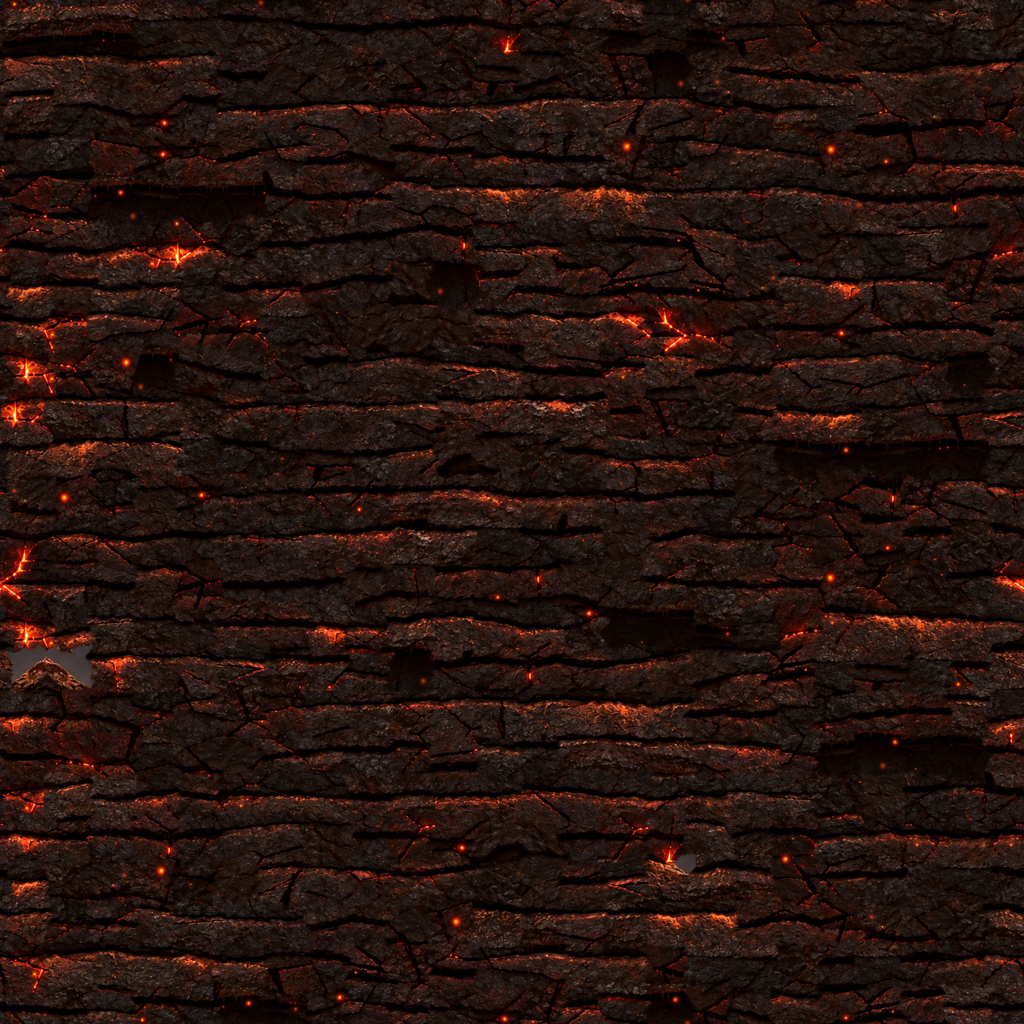
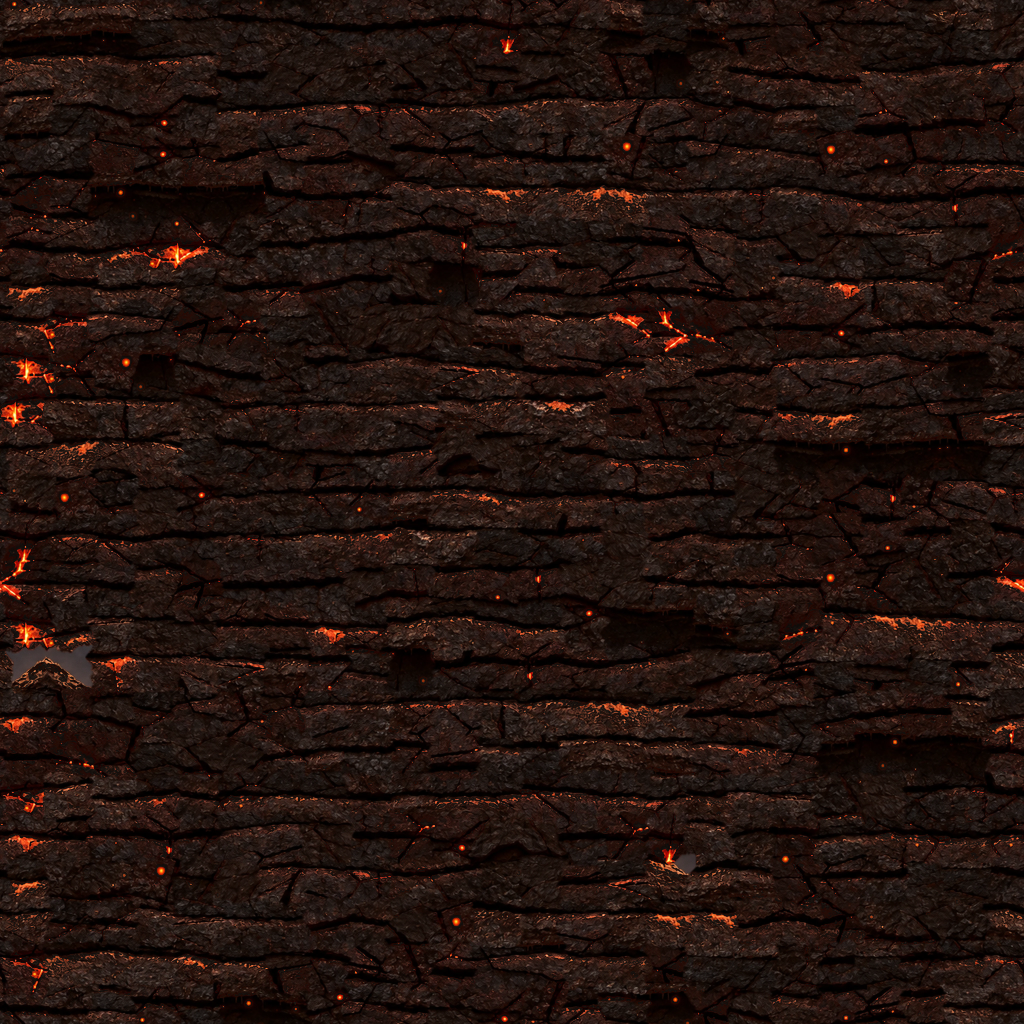
Версия 2026.10.15-50: корка лавы с трещинами расплава, тонкие прожилки вулкана, без нарисованных штрихов в траве

diff --git a/js/terrain_visual.js b/js/terrain_visual.js
@@ -354,14 +354,14 @@ function shadeMaterial(S, mt, x, y, t, capT, d, info, o, isBack) {
     }
     { const dk = Math.min(1, sd / 480); r *= 1 - 0.34 * dk; g *= 1 - 0.38 * dk; bl *= 1 - 0.36 * dk; }
     if (S.veinC && sd > 8) {
-      const dv = tileAt(tl.t3, x, y, 5, 61) < (t - capT < 70 ? 0.3 : 0.56) ? 1 : veinDist(tl, x, y, n2);   // рваные трещины, не везде
+      const dv = tileAt(tl.t3, x, y, 5, 61) < (t - capT < 70 ? 0.3 : S.veinMask) ? 1 : veinDist(tl, x, y, n2);   // рваные трещины, не везде
       if (dv < S.veinW) {
         const vc = n3 > 0.5 ? S.veinC : S.veinC2, k = 1 - dv / S.veinW, kk = k * 0.85 + 0.15;
         r += (vc[0] - r) * kk; g += (vc[1] - g) * kk; bl += (vc[2] - bl) * kk;
         if (S.veinGlow && k > 0.55 && S.hotCore) { const q = (k - 0.55) / 0.45; r += (255 - r) * q; g += (228 - g) * q; bl += (150 - bl) * q; }
         if (S.veinGlow && !isBack) { o.ga = 255 * k; o.gr = vc[0]; o.gg = vc[1]; o.gb = vc[2]; }
-      } else if (S.veinGlow && dv < S.veinW * 5) {                                              // отсвет раскалённой трещины на породе вокруг
-        const vc = n3 > 0.5 ? S.veinC : S.veinC2, q = 1 - dv / (S.veinW * 5), k = q * q * 0.32;
+      } else if (S.veinGlow && dv < S.veinW * S.veinHalo) {                                              // отсвет раскалённой трещины на породе вокруг
+        const vc = n3 > 0.5 ? S.veinC : S.veinC2, q = 1 - dv / (S.veinW * S.veinHalo), k = q * q * 0.32;
         r += (vc[0] - r) * k; g += (vc[1] - g) * k * 0.7; bl += (vc[2] - bl) * k * 0.5;
       }
     }
@@ -369,7 +369,7 @@ function shadeMaterial(S, mt, x, y, t, capT, d, info, o, isBack) {
     // пласты породы из Blender; светящиеся швы (лава, кристаллы) идут в слой свечения
     texAt(S.tx.rock, x, y, o); r = o.r * S.tgR; g = o.g * S.tgG; bl = o.b * S.tgB; o.tex = true;
     if (S.glowTex && !isBack) { const G2 = S.glowTex, dot = (o.r * G2[0] + o.g * G2[1] + o.b * G2[2]) / (Math.hypot(G2[0], G2[1], G2[2]) * (Math.hypot(o.r, o.g, o.b) + 1)), br = Math.max(o.r, o.g, o.b);   /* свечение — по исходной текстуре, без усиления яркости */
-      if (dot > 0.93 && br > 150) { o.ga = Math.min(255, (br - 150) * 2.4); o.gr = G2[0]; o.gg = G2[1]; o.gb = G2[2]; o.emit = true; o.r = r; o.g = g; o.b = bl; } }
+      if (dot > 0.93 && br > S.glowMin) { o.ga = Math.min(255, (br - S.glowMin) * 2.4);   /* светятся только раскалённые сердцевины */ o.gr = G2[0]; o.gg = G2[1]; o.gb = G2[2]; o.emit = true; o.r = r; o.g = g; o.b = bl; } }
     if (capT > 0 && t - capT < 10) { const sd = t - capT, q = 1 - sd / 10, k = S.snowy ? 1 - 0.45 * q * q : sd < 4 ? 0.5 : 0.66 + (sd - 4) * 0.057; r *= k; g *= k; bl *= k; }
     { const sd = t - capT, dk = Math.max(0, Math.min(1, (y - S.H * 0.35) / (S.H * 0.6))), up = sd < 60 ? 1.08 - sd / 60 * 0.08 : 1; const k = (1 - 0.08 * dk) * up; r *= k; g *= k * 0.98; bl *= k * 0.96; }   // глубже — темнее, у освещённого верха светлее
   } else if (mt === 2) {
@@ -427,8 +427,8 @@ function shadeMaterial(S, mt, x, y, t, capT, d, info, o, isBack) {
       if (hh > 0.6 && Math.abs(veinAt(tl.tv, x * 1.6 + bj * 37, y * 1.6) - 0.5) < 0.006 && e > 3) { r *= 0.62; g *= 0.62; bl *= 0.62; }
     }
     if (S.veinC && t - capT > 8) {
-      const dv = tileAt(tl.t3, x, y, 5, 61) < (t - capT < 70 ? 0.3 : 0.56) ? 1 : veinDist(tl, x, y, n2);   // рваные трещины, не везде
-      if (dv < S.veinW) { const vc = n3 > 0.5 ? S.veinC : S.veinC2, k = 1 - dv / S.veinW; r += (vc[0] - r) * k; g += (vc[1] - g) * k; bl += (vc[2] - bl) * k; if (S.veinGlow && !isBack) { o.ga = 255 * k; o.gr = vc[0]; o.gg = vc[1]; o.gb = vc[2]; } } else if (S.veinGlow && dv < S.veinW * 5) { const vc = n3 > 0.5 ? S.veinC : S.veinC2, q = 1 - dv / (S.veinW * 5), k = q * q * 0.32; r += (vc[0] - r) * k; g += (vc[1] - g) * k * 0.7; bl += (vc[2] - bl) * k * 0.5; }
+      const dv = tileAt(tl.t3, x, y, 5, 61) < (t - capT < 70 ? 0.3 : S.veinMask) ? 1 : veinDist(tl, x, y, n2);   // рваные трещины, не везде
+      if (dv < S.veinW) { const vc = n3 > 0.5 ? S.veinC : S.veinC2, k = 1 - dv / S.veinW; r += (vc[0] - r) * k; g += (vc[1] - g) * k; bl += (vc[2] - bl) * k; if (S.veinGlow && !isBack) { o.ga = 255 * k; o.gr = vc[0]; o.gg = vc[1]; o.gb = vc[2]; } } else if (S.veinGlow && dv < S.veinW * S.veinHalo) { const vc = n3 > 0.5 ? S.veinC : S.veinC2, q = 1 - dv / (S.veinW * S.veinHalo), k = q * q * 0.32; r += (vc[0] - r) * k; g += (vc[1] - g) * k * 0.7; bl += (vc[2] - bl) * k * 0.5; }
     }
   } else if (mt === 12 && (S.tx.rock || S.tx.dirt || S.tx.cave)) {
     // задняя стена: та же порода, что и скала вокруг (в скальных картах), иначе — плиты пещеры
@@ -895,14 +895,14 @@ function buildTerrainVisual(T, theme, map, raster, waterY) {
   const capMat = new Uint8Array(16); for (const k of (G.capMats || [1])) capMat[k] = 1;
   const V = getVoronoi();
   const S = {
-    tiles: getTiles(), colOff, vs: V.s, vl: V.l, grassy: !!G.cap.blades && !G.cap.snow, glowTex: G.tex && G.tex.glowTex, sod: theme.id === 'valley' || theme.id === 'castle' || theme.id === 'alien', rootCols: G.tex && G.tex.grass && TexLib.data[G.tex.grass] ? (theme.id === 'valley' || theme.id === 'castle' ? [[83, 100, 49], [68, 75, 38], [51, 44, 29]] : theme.id === 'alien' ? [[70, 66, 40], [52, 50, 30], [40, 34, 24]] /* мох Alien как в эталоне: тёмный оливково-бурый (медиана 65/54/34), а не салатовая полоса */ : [[82, 102, 34], [60, 76, 24], [54, 42, 24]]) : null, tx: { dirt: G.tex && TexLib.data[G.tex.dirt], cave: G.tex && TexLib.data[G.tex.cave], rock: G.tex && TexLib.data[G.tex.rock], concrete: G.tex && TexLib.data[G.tex.concrete], facade: G.tex && TexLib.data[G.tex.facade], cap: G.tex && TexLib.data[G.tex.cap] }, capMean: texMean(G.tex && TexLib.data[G.tex.cap]), texGain: 1, tgR: (G.tex && G.tex.gain) ? (Array.isArray(G.tex.gain) ? G.tex.gain[0] : G.tex.gain) : 1, tgG: (G.tex && G.tex.gain) ? (Array.isArray(G.tex.gain) ? G.tex.gain[1] : G.tex.gain) : 1, tgB: (G.tex && G.tex.gain) ? (Array.isArray(G.tex.gain) ? G.tex.gain[2] : G.tex.gain) : 1, smoothStones: !!G.smoothStones, rimCol: G.stoneRim ? hex2rgb(G.stoneRim) : null, H, pebD: G.pebDensity || 1, snowy: !!G.cap.snow, hotCore: !!(G.veins && G.veins.hot), rockDirt: !!G.rockDirt, rimK: G.rimK || 0.2, hullTop: waterY - 300, waterY, backK: G.backK || 1, glass: theme.id === 'tropical', neon: G.neonRim ? G.neonRim.map(hex2rgb) : null, sun: G.sun ? hex2rgb(G.sun) : null, hasWaterline: (theme.id === 'tropical' || theme.id === 'castle') && waterY < H, kelpCol: theme.id === 'tropical' ? [32, 58, 26] : [48, 76, 32], waterDeep: theme.liquid && theme.liquid.deep ? hex2rgb(theme.liquid.deep) : [12, 47, 85],
+    tiles: getTiles(), colOff, vs: V.s, vl: V.l, grassy: !!G.cap.blades && !G.cap.snow, glowTex: G.tex && G.tex.glowTex, glowMin: G.tex && G.tex.glowMin || 150, sod: theme.id === 'valley' || theme.id === 'castle' || theme.id === 'alien', rootCols: G.tex && G.tex.grass && TexLib.data[G.tex.grass] ? (theme.id === 'valley' || theme.id === 'castle' ? [[83, 100, 49], [68, 75, 38], [51, 44, 29]] : theme.id === 'alien' ? [[70, 66, 40], [52, 50, 30], [40, 34, 24]] /* мох Alien как в эталоне: тёмный оливково-бурый (медиана 65/54/34), а не салатовая полоса */ : [[82, 102, 34], [60, 76, 24], [54, 42, 24]]) : null, tx: { dirt: G.tex && TexLib.data[G.tex.dirt], cave: G.tex && TexLib.data[G.tex.cave], rock: G.tex && TexLib.data[G.tex.rock], concrete: G.tex && TexLib.data[G.tex.concrete], facade: G.tex && TexLib.data[G.tex.facade], cap: G.tex && TexLib.data[G.tex.cap] }, capMean: texMean(G.tex && TexLib.data[G.tex.cap]), texGain: 1, tgR: (G.tex && G.tex.gain) ? (Array.isArray(G.tex.gain) ? G.tex.gain[0] : G.tex.gain) : 1, tgG: (G.tex && G.tex.gain) ? (Array.isArray(G.tex.gain) ? G.tex.gain[1] : G.tex.gain) : 1, tgB: (G.tex && G.tex.gain) ? (Array.isArray(G.tex.gain) ? G.tex.gain[2] : G.tex.gain) : 1, smoothStones: !!G.smoothStones, rimCol: G.stoneRim ? hex2rgb(G.stoneRim) : null, H, pebD: G.pebDensity || 1, snowy: !!G.cap.snow, hotCore: !!(G.veins && G.veins.hot), rockDirt: !!G.rockDirt, rimK: G.rimK || 0.2, hullTop: waterY - 300, waterY, backK: G.backK || 1, glass: theme.id === 'tropical', neon: G.neonRim ? G.neonRim.map(hex2rgb) : null, sun: G.sun ? hex2rgb(G.sun) : null, hasWaterline: (theme.id === 'tropical' || theme.id === 'castle') && waterY < H, kelpCol: theme.id === 'tropical' ? [32, 58, 26] : [48, 76, 32], waterDeep: theme.liquid && theme.liquid.deep ? hex2rgb(theme.liquid.deep) : [12, 47, 85],
     capCols: G.cap.cols.map(hex2rgb), beach: G.cap.beach ? G.cap.beach.cols.map(hex2rgb) : null,
     beachY: G.cap.beach ? waterY - G.cap.beach.range : 1e9,
     strata: G.strata.map(hex2rgb), L: G.strata.length,
     rockC: (G.rock || G.strata).map(hex2rgb), RL: (G.rock || G.strata).length,
     soil: hex2rgb(G.soil), soilDepth: G.soilDepth, pebs: G.pebbles.map(hex2rgb),
     veinC: G.veins ? hex2rgb(G.veins.color) : null, veinC2: G.veins ? hex2rgb(G.veins.color2 || G.veins.color) : null,
-    veinW: G.veins ? G.veins.w : 0, veinGlow: !!(G.veins && G.veins.glow),
+    veinW: G.veins ? G.veins.w : 0, veinGlow: !!(G.veins && G.veins.glow), veinMask: G.veins && G.veins.mask || 0.56, veinHalo: G.veins && G.veins.halo || 5,
     band: G.band, st: 1 - (1 - G.bandSharp) * 0.6, rockBand: G.rockBand || Math.max(26, G.band * 1.2),
     iceA: [226, 246, 255], iceB: [92, 158, 214],
   };
@@ -1153,8 +1153,8 @@ function drawSurfaceDetails(T, theme, seed, waterY, tops, ceils, mat) {
       for (let k = 0; k < tops.length; k += 2) {
         const x = tops[k], y = tops[k + 1]; anchor(x, y);
         if (y > waterY - 4 || matAt(x, y) !== 1 || !flatTop(x, y) || isCaveAt(x, y) || hash3(x >> 3, 0, seed + 94) < 0.7 || rng() > 0.22) continue;
-        c.strokeStyle = rng() < 0.5 ? '#bab181' : '#adbe70'; const h = 3 + rng() * 9;
-        c.beginPath(); c.moveTo(x, y + 1); c.quadraticCurveTo(x + 1, y - h * 0.5, x + (rng() - 0.5) * 5, y - h); c.stroke();
+        // светлые штрихи-травинки поверх фото-травы при приближении выглядели нарисованными — убраны (числа rng те же)
+        rng(); rng(); rng();
       }
       c.restore();
     }

diff --git a/js/art.js b/js/art.js
@@ -47,7 +47,7 @@ const MapArt = {
 const TexLib = {
   names: ['dirt_valley', 'brick_keep', 'brick_light', 'cave_wall', 'grass_valley', 'tree_oak1', 'tree_oak2', 'tree_oak3', 'tree_pine1', 'tree_pine2', 'tree_birch1', 'bush1', 'bush2',
     'rock_canyon', 'dirt_canyon', 'cave_canyon', 'rock_arctic', 'cave_arctic', 'rock_volcano', 'cave_volcano', 'rock_alien', 'dirt_alien', 'cave_alien', 'grass_alien',
-    'wood_ship', 'wood_hull', 'stone_valley', 'stone_castle', 'stone_sand', 'stone_dark', 'stone_light', 'ivy', 'snowman1', 'snowman2', 'cactus1', 'cactus2', 'cactus3', 'palm1', 'palm2', 'palm3', 'deadtree1', 'deadtree2', 'deadtree_char1', 'deadtree_char2', 'igloo1', 'icecrystal1', 'icecrystal2', 'watertower1', 'column1', 'column2', 'pot1', 'pot2', 'drygrass1', 'drygrass2', 'drygrass3', 'drygrass4', 'flower1', 'flower2', 'flower3', 'flower4', 'leaf1', 'leaf2', 'leaf3', 'leaf4', 'roots1', 'roots2', 'roots3', 'cottage1', 'crystal_c1', 'crystal_c2', 'crystal_m1', 'crystal_m2', 'obsidian1', 'obsidian2', 'lavarock1', 'lavarock2', 'spike1', 'spike2', 'skull1', 'bones1', 'alienplant1', 'alienplant2', 'pod1', 'tentacle1', 'rock1', 'rock2', 'rock3', 'rockb1', 'rockb2', 'rocksnow1', 'rocksnow2', 'ladder_wood', 'ladder_steel', 'ladder_steelY', 'metal_station', 'metal_steel', 'metal_ufo', 'wood_light', 'dirt_tropical', 'grass_tropical', 'concrete_city', 'dirt_castle', 'brick_castle', 'cap_snow', 'cap_sand', 'cap_ash', 'soldier_free', 'soldier_aim', 'haystack1', 'alien_tree1', 'alien_tree2', 'facade_city', 'tree_pine_snow1', 'tree_pine_snow2',
+    'wood_ship', 'wood_hull', 'stone_valley', 'stone_castle', 'stone_sand', 'stone_dark', 'stone_light', 'ivy', 'snowman1', 'snowman2', 'cactus1', 'cactus2', 'cactus3', 'palm1', 'palm2', 'palm3', 'deadtree1', 'deadtree2', 'deadtree_char1', 'deadtree_char2', 'igloo1', 'icecrystal1', 'icecrystal2', 'watertower1', 'column1', 'column2', 'pot1', 'pot2', 'drygrass1', 'drygrass2', 'drygrass3', 'drygrass4', 'flower1', 'flower2', 'flower3', 'flower4', 'leaf1', 'leaf2', 'leaf3', 'leaf4', 'roots1', 'roots2', 'roots3', 'cottage1', 'lava_surface', 'crystal_c1', 'crystal_c2', 'crystal_m1', 'crystal_m2', 'obsidian1', 'obsidian2', 'lavarock1', 'lavarock2', 'spike1', 'spike2', 'skull1', 'bones1', 'alienplant1', 'alienplant2', 'pod1', 'tentacle1', 'rock1', 'rock2', 'rock3', 'rockb1', 'rockb2', 'rocksnow1', 'rocksnow2', 'ladder_wood', 'ladder_steel', 'ladder_steelY', 'metal_station', 'metal_steel', 'metal_ufo', 'wood_light', 'dirt_tropical', 'grass_tropical', 'concrete_city', 'dirt_castle', 'brick_castle', 'cap_snow', 'cap_sand', 'cap_ash', 'soldier_free', 'soldier_aim', 'haystack1', 'alien_tree1', 'alien_tree2', 'facade_city', 'tree_pine_snow1', 'tree_pine_snow2',
     // оружие в руках (wpn_*, кадр 48×24 ед.) и метательное в полёте (ent_*, кадр 16×16 ед.) — рендер Blender, dev/blender/make_weapons2.py
     'wpn_assault', 'wpn_revolver', 'wpn_magnum', 'wpn_uzi', 'wpn_acid', 'wpn_plasma', 'wpn_autocannon', 'wpn_tesla', 'wpn_repulsor', 'wpn_rpg', 'wpn_bazooka', 'wpn_homing', 'wpn_mortar', 'wpn_drill', 'wpn_salvo', 'wpn_grenade', 'wpn_cluster', 'wpn_sticky', 'wpn_molotov', 'wpn_blackhole', 'wpn_shotgun', 'wpn_sniper', 'wpn_minigun', 'wpn_flamer', 'wpn_railgun', 'wpn_dynamite', 'wpn_mine', 'wpn_robot', 'wpn_boot', 'wpn_bat', 'wpn_airstrike', 'wpn_lightning', 'wpn_orbital', 'wpn_nuke', 'wpn_tpgrenade', 'wpn_teleport', 'wpn_girder', 'wpn_pickaxe', 'wpn_medkit', 'wpn_skip', 'wpn_jetpack', 'ent_grenade', 'ent_cluster', 'ent_sticky', 'ent_molotov', 'ent_blackhole', 'ent_dynamite', 'ent_mine', 'ent_robot', 'ent_tpgrenade'],
   data: {},
@@ -263,6 +263,7 @@ const TexLib = {
     for (const k of theme.scatter || []) for (const n of trees[k] || []) add(n);   // россыпь по поверхности (камни, кристаллы, кости)
     if (theme.scatterRock) for (const n of ['drygrass1', 'drygrass2', 'drygrass3', 'drygrass4']) add(n);
     if (theme.ground && theme.ground.ceiling === 'roots') for (const n of ['roots1', 'roots2', 'roots3']) add(n);   // корни в пещерах (terrain_visual.js)
+    if (theme.liquid && theme.liquid.kind === 'lava') add('lava_surface');   // корка лавы (render.js, drawLiquid)
     if (theme.weather === 'leaves') for (const n of ['leaf1', 'leaf2', 'leaf3', 'leaf4']) add(n);   // падающие листья (particles.js, погода)
     if (theme.ground && theme.ground.cap && theme.ground.cap.flowers) for (const n of ['flower1', 'flower2', 'flower3', 'flower4']) add(n);   // полевые цветы (decor.js, wildflowers)   // сухая трава по уступам каньона (decor.js, drygrass)
     if ((map.ladders || []).length) add('ladder_' + (theme.id === 'city' ? 'steelY' : theme.id === 'alien' ? 'steel' : 'wood'));   // лестницы из Blender (как в drawTacticalRoutes)

diff --git a/tests/selective-assets.test.js b/tests/selective-assets.test.js
@@ -48,7 +48,7 @@ const expected = {
   valley: ['dirt_valley', 'cave_wall', 'grass_valley', 'stone_valley', 'ivy', 'wood_ship', 'brick_keep', 'wood_light', 'tree_oak1', 'tree_oak2', 'tree_oak3', 'tree_pine1', 'tree_pine2', 'tree_birch1', 'haystack1', 'bush1', 'bush2', 'rock1', 'rock2', 'rock3', 'ladder_wood', 'column1', 'column2', 'flower1', 'flower2', 'flower3', 'flower4', 'leaf1', 'leaf2', 'leaf3', 'leaf4', 'roots1', 'roots2', 'roots3'],   /* v40: декор и россыпь из Blender; v45: колонны */
   canyon: ['dirt_canyon', 'rock_canyon', 'cave_canyon', 'cap_sand', 'stone_sand', 'cactus1', 'cactus2', 'cactus3', 'deadtree1', 'deadtree2', 'watertower1', 'skull1', 'rock1', 'rock2', 'rock3', 'wood_light', 'ladder_wood', 'column1', 'column2', 'pot1', 'pot2', 'drygrass1', 'drygrass2', 'drygrass3', 'drygrass4'],   /* v40: декор и россыпь из Blender; v45: колонны, кувшины, сухая трава */
   arctic: ['rock_arctic', 'cave_arctic', 'cap_snow', 'tree_pine_snow1', 'tree_pine_snow2', 'snowman1', 'snowman2', 'igloo1', 'icecrystal1', 'icecrystal2', 'rocksnow1', 'rocksnow2', 'wood_light', 'ladder_wood', 'metal_station', 'metal_steel'],   /* с версии 38 у станции тоже заснеженные ели; v40: декор и россыпь из Blender */
-  volcano: ['rock_volcano', 'cave_volcano', 'cap_ash', 'stone_dark', 'deadtree_char1', 'deadtree_char2', 'spike1', 'spike2', 'obsidian1', 'obsidian2', 'lavarock1', 'lavarock2', 'bones1', 'wood_light', 'ladder_wood', 'metal_steel'],   /* v40: декор и россыпь из Blender */
+  volcano: ['rock_volcano', 'cave_volcano', 'cap_ash', 'stone_dark', 'deadtree_char1', 'deadtree_char2', 'spike1', 'spike2', 'obsidian1', 'obsidian2', 'lavarock1', 'lavarock2', 'bones1', 'wood_light', 'ladder_wood', 'metal_steel', 'lava_surface'],   /* v40: декор и россыпь из Blender */
   alien: ['rock_alien', 'cave_alien', 'grass_alien', 'alien_tree1', 'alien_tree2', 'crystal_c1', 'crystal_c2', 'crystal_m1', 'crystal_m2', 'alienplant1', 'alienplant2', 'pod1', 'tentacle1', 'wood_light', 'ladder_steel', 'metal_ufo'],   /* v40: декор и россыпь из Blender */
   pirate: ['dirt_tropical', 'cave_wall', 'grass_tropical', 'wood_hull', 'stone_light', 'ivy', 'palm1', 'palm2', 'palm3', 'rockb1', 'rockb2', 'wood_light', 'bush1', 'bush2', 'ladder_wood', 'flower1', 'flower2', 'flower3', 'flower4'],   /* v40: декор и россыпь из Blender */
   castles: ['dirt_castle', 'cave_wall', 'grass_valley', 'stone_castle', 'ivy', 'wood_hull', 'wood_light', 'tree_oak1', 'tree_oak2', 'tree_oak3', 'tree_pine1', 'tree_pine2', 'haystack1', 'bush1', 'bush2', 'rock1', 'rock2', 'rock3', 'ladder_wood', 'flower1', 'flower2', 'flower3', 'flower4', 'leaf1', 'leaf2', 'leaf3', 'leaf4', 'roots1', 'roots2', 'roots3', 'cottage1'],   /* v40: декор и россыпь из Blender */

diff --git a/js/render.js b/js/render.js
@@ -685,6 +685,15 @@ class Renderer {
     if (back) { c.fillStyle = css(shadec(L.mid, lava ? 1 : 0.8)); c.fill(); return; }
     const g = c.createLinearGradient(0, wy - 6, 0, wy + 280); g.addColorStop(0, L.top); g.addColorStop(0.22, L.mid); g.addColorStop(1, L.deep);
     c.save(); c.globalAlpha = L.alpha; c.fillStyle = g; c.fill(); c.restore();
+    // лава: настоящая корка — тёмные плиты и светящиеся трещины расплава (dev/tools/make_lava.py), медленно дрейфует;
+    // к глубине темнее. Без текстуры — прежняя заливка с плитами-эллипсами
+    const LT = lava && typeof TexLib !== 'undefined' && TexLib.data.lava_surface;
+    if (LT) {
+      if (!this.lavaPat || this.lavaPatC !== c || this.lavaPatS !== LT.canvas) { this.lavaPat = c.createPattern(LT.canvas, 'repeat'); this.lavaPatC = c; this.lavaPatS = LT.canvas; }
+      const k = 512 / LT.canvas.width; this.lavaPat.setTransform(new DOMMatrix([k, 0, 0, k * 0.55, t * 4, wy + t * 1.2]));
+      c.save(); c.fillStyle = this.lavaPat; c.globalAlpha = 0.94; c.fill();
+      const gd = c.createLinearGradient(0, wy, 0, wy + 300); gd.addColorStop(0, 'rgba(40,6,0,0)'); gd.addColorStop(1, 'rgba(30,4,0,0.7)'); c.fillStyle = gd; c.globalAlpha = 1; c.fill(); c.restore();
+    }
     if (!lava) this.drawReflection(c, wy, t);
     c.save();
     const span = Math.max(1, x1 - x0), far = span > 9000, fc = hex2rgb(L.foam);
@@ -716,8 +725,8 @@ class Renderer {
     }
     if (lava) {
       c.fillStyle = 'rgba(90,20,5,0.45)';
-      for (let i = 0; i < 24; i++) { const gx = x0 + (((i * 173.3 + t * 9 * (i % 3 + 1)) % span) + span) % span; c.beginPath(); c.ellipse(gx, wy + 8 + (i * 7 % 40), 12 + (i % 5) * 5, 3, 0, 0, TAU); c.fill(); }
-      c.globalCompositeOperation = 'lighter'; const g2 = c.createLinearGradient(0, wy - 50, 0, wy + 40); g2.addColorStop(0, 'rgba(255,120,30,0)'); g2.addColorStop(1, 'rgba(255,150,50,0.35)'); c.fillStyle = g2; c.fillRect(x0, wy - 50, span, 90);
+      if (!LT) for (let i = 0; i < 24; i++) { const gx = x0 + (((i * 173.3 + t * 9 * (i % 3 + 1)) % span) + span) % span; c.beginPath(); c.ellipse(gx, wy + 8 + (i * 7 % 40), 12 + (i % 5) * 5, 3, 0, 0, TAU); c.fill(); }
+      c.globalCompositeOperation = 'lighter'; const g2 = c.createLinearGradient(0, wy - 50, 0, wy + 70); g2.addColorStop(0, 'rgba(255,120,30,0)'); g2.addColorStop(0.42, 'rgba(255,150,50,0.35)'); g2.addColorStop(1, 'rgba(255,150,50,0)'); c.fillStyle = g2; c.fillRect(x0, wy - 50, span, 120);   /* жар над лавой — без резкой нижней границы */
     } else {
       // лучи света в толще воды: мягкие наклонные клинья, медленно колышутся
       c.save(); c.globalCompositeOperation = 'lighter';

diff --git a/js/themes.js b/js/themes.js
@@ -89,7 +89,7 @@ const THEMES = {
       strata: ['#4b3c39', '#5b4944', '#3e3130', '#655149', '#4e3e3a'], band: 26, bandSharp: 0.3,
       rock: ['#6a5244', '#7e6250', '#5a4438', '#8a6c56', '#725a4a'], rockDirt: true, rockBand: 48, backK: 1.5,
       pebbles: ['#6a5a54', '#7a6862', '#5a4a44'], smoothStones: true,
-      outline: '#0d0606', veins: { color: '#ff7a20', w: 0.026, glow: true, hot: true }, ceiling: 'stalactites', capMats: [1, 9], tex: { rock: 'rock_volcano', cave: 'cave_volcano', cap: 'cap_ash', gain: [2.13, 3.26, 3.73], glowTex: [255, 110, 30] },
+      outline: '#0d0606', veins: { color: '#ff7a20', w: 0.012, glow: true, hot: true, mask: 0.64, halo: 3 /* v50: тонкие редкие трещины, как в эталоне (были кляксы) */ }, ceiling: 'stalactites', capMats: [1, 9], tex: { rock: 'rock_volcano', cave: 'cave_volcano', cap: 'cap_ash', gain: [2.13, 3.26, 3.73], glowTex: [255, 110, 30], glowMin: 190 },
     },
     scatter: ['obsidian', 'lavarock', 'bones', 'obsidian', 'lavarock'],
     weather: 'embers', birds: false, ambient: '#a47a6c', ambientSound: 'lava', glow: true,

diff --git a/index.html b/index.html
@@ -114,7 +114,7 @@
         </div>
       </div>
     </div>
-    <footer class="menu-footer"><span id="game-version">ВЕРСИЯ 2026.10.15-49</span><span>ПЛАНИРУЙ ХОД. МЕНЯЙ ЛАНДШАФТ.</span><span class="footer-status"><i></i> ГОТОВ К БОЮ</span></footer>
+    <footer class="menu-footer"><span id="game-version">ВЕРСИЯ 2026.10.15-50</span><span>ПЛАНИРУЙ ХОД. МЕНЯЙ ЛАНДШАФТ.</span><span class="footer-status"><i></i> ГОТОВ К БОЮ</span></footer>
   </section>
 
   <!-- Онлайн -->

diff --git a/dev/tools/make_lava.py b/dev/tools/make_lava.py
@@ -1,0 +1,66 @@
+"""Поверхность лавы (бесшовная плитка 1024×1024 → assets/tex/lava_surface.png): остывшие плиты корки (тёмные, шероховатые),
+между ними — светящиеся трещины расплава (раскалённая сердцевина → оранжевый → тёмный край), местами горячие участки,
+где корка тонкая. Ячейки Вороного и шум — периодические, плитка повторяется без шва."""
+import numpy as np
+from PIL import Image
+import os
+
+N, CELLS, SEED = 1024, 26, 7
+rng = np.random.default_rng(SEED)
+
+
+def pnoise(n, freq, seed):
+    """периодический шум: сумма синусоид со случайными фазами по целым частотам (плитка без шва)"""
+    r = np.random.default_rng(seed); y, x = np.mgrid[0:n, 0:n] / n * 2 * np.pi; out = np.zeros((n, n))
+    for _ in range(24):
+        kx, ky = r.integers(-freq, freq + 1, 2)
+        if kx == 0 and ky == 0: continue
+        out += np.sin(kx * x + ky * y + r.uniform(0, 2 * np.pi)) / np.hypot(kx, ky)
+    return (out - out.min()) / (out.max() - out.min())
+
+
+def fbm(n, seed):
+    return sum(pnoise(n, f, seed + i) * a for i, (f, a) in enumerate([(3, 0.5), (7, 0.25), (15, 0.15), (31, 0.1)]))
+
+
+# ячейки Вороного на торе: F1, F2 — расстояния до ближайших центров (с повтором по краям)
+pts = rng.uniform(0, N, (CELLS, 2))
+y, x = np.mgrid[0:N, 0:N].astype(np.float32)
+warp = (fbm(N, 11) - 0.5) * 40 + (pnoise(N, 45, 12) - 0.5) * 7, (fbm(N, 23) - 0.5) * 40 + (pnoise(N, 45, 24) - 0.5) * 7   # рваные края
+xw, yw = x + warp[0], y + warp[1]
+F1 = np.full((N, N), 1e9, np.float32); F2 = np.full((N, N), 1e9, np.float32)
+for px, py in pts:
+    for ox in (-N, 0, N):
+        for oy in (-N, 0, N):
+            d = np.hypot(xw - px - ox, yw - py - oy)
+            F2 = np.where(d < F1, F1, np.minimum(F2, d)); F1 = np.minimum(F1, d)
+edge = F2 - F1                                   # 0 на границе плит
+
+
+def blur_wrap(a, sig):
+    f = np.fft.fftfreq(N); g = np.exp(-2 * (np.pi * sig) ** 2 * (f[:, None] ** 2 + f[None, :] ** 2))
+    return np.real(np.fft.ifft2(np.fft.fft2(a) * g))
+
+
+def cells(n, seed):
+    p = np.random.default_rng(seed).uniform(0, N, (n, 2)); a = np.full((N, N), 1e9, np.float32); b = a.copy()
+    for px, py in p:
+        for ox in (-N, 0, N):
+            for oy in (-N, 0, N):
+                d = np.hypot(xw - px - ox, yw - py - oy); b = np.where(d < a, a, np.minimum(b, d)); a = np.minimum(a, d)
+    return b - a
+
+
+grain = blur_wrap(rng.standard_normal((N, N)), 1.1); grain = (grain - grain.mean()) / grain.std()
+sub = np.exp(-(cells(110, 5) / 1.4) ** 2) * 0.4 * np.clip(edge / 30, 0, 1)            # мелкие трещины внутри плит
+crack = np.exp(-(edge / (3.2 + 4 * fbm(N, 41))) ** 2)          # ширина трещины меняется вдоль неё
+halo = np.exp(-(edge / 22) ** 2) * 0.35
+hot = np.clip((fbm(N, 57) - 0.62) * 4, 0, 1) * (1 - np.clip(F1 / 60, 0, 1) * 0.5)   # тонкая корка — светится сама
+rough = np.clip(fbm(N, 77) * 0.6 + pnoise(N, 63, 91) * 0.2 + grain * 0.12 + 0.1, 0, 1.2)
+crust = np.stack([38 + 34 * rough, 22 + 18 * rough, 18 + 12 * rough], -1)          # остывшая базальтовая корка
+glowv = np.clip(crack + halo * (0.8 + 0.4 * fbm(N, 99)) + hot * 0.7 + sub, 0, 1.4)
+ramp = lambda v: np.stack([np.interp(v, [0, 0.25, 0.6, 1.0, 1.4], c) for c in ([0, 150, 245, 255, 255], [0, 30, 110, 210, 245], [0, 5, 20, 90, 170])], -1)
+col = crust * (1 - np.clip(glowv * 1.6, 0, 1))[..., None] + ramp(glowv)
+img = np.clip(col, 0, 255).astype(np.uint8)
+out = os.path.join(os.path.dirname(__file__), '..', '..', 'assets', 'tex', 'lava_surface.png')
+Image.fromarray(img, 'RGB').save(out); print('saved', out, img.shape, 'glow share', round(float((glowv > 0.3).mean()), 3))

diff --git a/CLAUDE.md b/CLAUDE.md
@@ -7,7 +7,7 @@ D:\Територивар1 и пользовательский Territory-War100 
 Не выполнять старые указания reset/clean/push/автоматического обновления (локальные коммиты можно).
 Запускать «Играть.cmd» или «Играть онлайн.cmd» из D:\Територивар.
 Полная переписка: dev/imported-chat/claude-code. Текущие цели: dev/NEXT_STEPS.md.
-Актуальная версия 2026.10.15-49, передача: dev/HANDOFF-2026-10-04.md и разделы «Версия 33–45» в dev/NEXT_STEPS.md.
+Актуальная версия 2026.10.15-50, передача: dev/HANDOFF-2026-10-04.md и разделы «Версия 33–45» в dev/NEXT_STEPS.md.
 Версия 45 (14.10): кадр наведения соперника — Camera.shotFrame идёт за дальней точкой (точка у края кадра с отступом); удары, попадания и снаряды центруются и у края карты (clampTo, reach). Ядерка — game.nuke (rd 430, pierce 0.5, урон 280). Звуки Sonniss GDC 2026 скачаны в D:\Sonniss-GDC2026\zips (лицензия без авторства; не выкладывать сами файлы). Версия 46: звук Sonniss (amb_*, boom5–9, nukeboom, ice0–1; dev/tools/sonniss_make.py; AMB_REC в audio.js), мотор ракеты ROCKET_MOTOR (entities.js, и в simulateShot), обломки PART_REST (particles.js), цветы flower1–4 и листья leaf1–4 (make_decor.py; цветы — в слое растений terrain_visual.js). Версия 48: оружие и взрывы из прошлых наборов Sonniss (выборочно по HTTP Range — scratchpad zip_fetch.py, копия D:\Sonniss-GDC2026\zip_fetch.py; записи в D:\Sonniss-GDC2026\guns; нарезка dev/tools/guns_make.py). Версия 49: makeup-усиление в audio.js init (2.5), лазер — ошибка по ветру (entities.js orbital), pickFrame — кадр по середине «самолёт…земля» (zFit), clampTo — свободный обзор до края (edge/scopeFocus/binoc), прицел соперника прижат к краю экрана со стрелкой. Лимиты: критик — лёгкий (8 уменьшенных снимков), тяжёлое — фоновыми процессами.
 Графика (просьба 09.10): всё векторное и лоскутное — в фотореалистичный Blender (кладка dev/blender/make_masonry.py, ели snow_spruce в make_textures.py, плющ make_ivy.py, декор make_decor.py); доски корабля dev/tools/make_hull_planks.py, чистка снега в текстуре dev/tools/despeckle_snow.py; критик r22 — dev/reviews/r22.md.
 Чёткость (просьба 10.10): текстуры чёткие при ЛЮБОМ увеличении — у каждого материала родная ×4 в assets/tex/native (Blender: dev/blender/hf_render.py блоками, make_masonry.py, make_metal.py; остальное — dev/native_batch.py через dev/tools/native_queue.py), проверять снимками на 1,3×/2×/max и мерой R = ВЧ(1:1)/ВЧ(½) родной (≥ 0.85; у рендеров Blender — узкий фильтр пикселя, без шумоподавления, см. dev/reviews/r24.md). Длинные рендеры возобновляемые (HF_RESUME=1, native_queue.py --clear-stale): у пользователя бывают отключения света.

diff --git a/README.md b/README.md
@@ -12,6 +12,10 @@
 
 Лаунчеры сразу открывают приложение во весь экран; F11 — выход/возврат. В обычной браузерной ссылке полный экран включается с первого действия пользователя.
 
+## Обновление 50
+
+Вулкан: озеро лавы — настоящая корка из тёмных плит со светящимися трещинами расплава, медленно дрейфует (раньше — жёлтая заливка с эллипсами); раскалённые прожилки в породе тоньше и реже, без оранжевых клякс. Долина и замки: убраны светлые нарисованные штрихи поверх травы.
+
 ## Обновление 49
 
 Звук громче (~+8 дБ, ограничитель без хрипа), бой за полэкрана слышно ясно. Орбитальный лазер сносит по ветру — всегда в его сторону. Удар с неба отдаляет камеру вдвое меньше: самолёт (туча, ракета) и земля в кадре, бойцов видно. С оружием выбора точки, оптикой и биноклем обзор доходит до самого края карты (край можно поставить в центр и приблизить). Прицел соперника всегда целиком на экране; если его точка за кадром — прицел у края со стрелкой в её сторону.

diff --git a/dev/CORE_GOALS.md b/dev/CORE_GOALS.md
@@ -8,7 +8,8 @@ dev/MASTER_PLAN.md (все просьбы пользователя), а сохр
 - Все 8 карт (valley, canyon, arctic, volcano, alien, pirate, castles, city) — оценка критика **≥ 8/10** против
   dev/reference/*.png. Критик — субагент, но лёгкий: 8 уменьшенных снимков + эталоны за один заход (лимиты пользователя).
 - Всё векторное и лоскутное → **фотореалистичные ассеты из Blender** (dev/blender/make_decor.py и др.).
-  Осталось (на 15.10): светлые дуги стеблей в траве долины/замков; лава тонкими жилками, лавовые шары и кости вулкана;
+  Сделано 15.10 (v50): дуги в траве убраны, озеро лавы — текстура корки (dev/tools/make_lava.py), прожилки тоньше.
+  Осталось: звёздчатые светящиеся сердцевины в rock_volcano при 2,5×; лавовые шары и кости вулкана;
   мох и плющ на кладке, ряды разной высоты; фасад города ≥2048 px из Blender, эстакада; металл Alien без повтора и
   светильники, гриб-дерево Alien; тёмная порода rock_alien (пятна).
 - **Чёткость при любом увеличении** (1,3×, 2×, max 2,5×): у каждого материала родная ×4, спрайты — версия ×4 через слой
